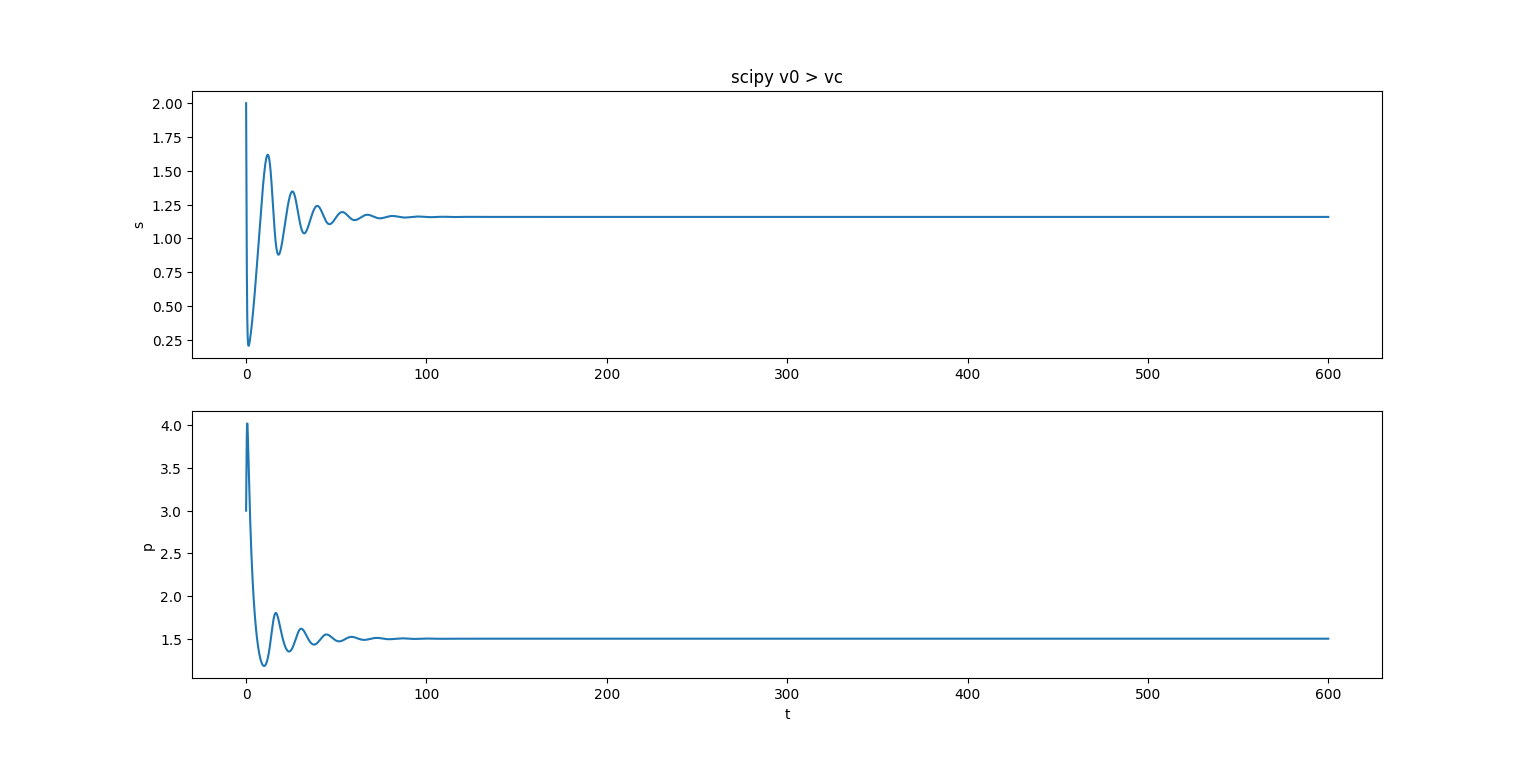
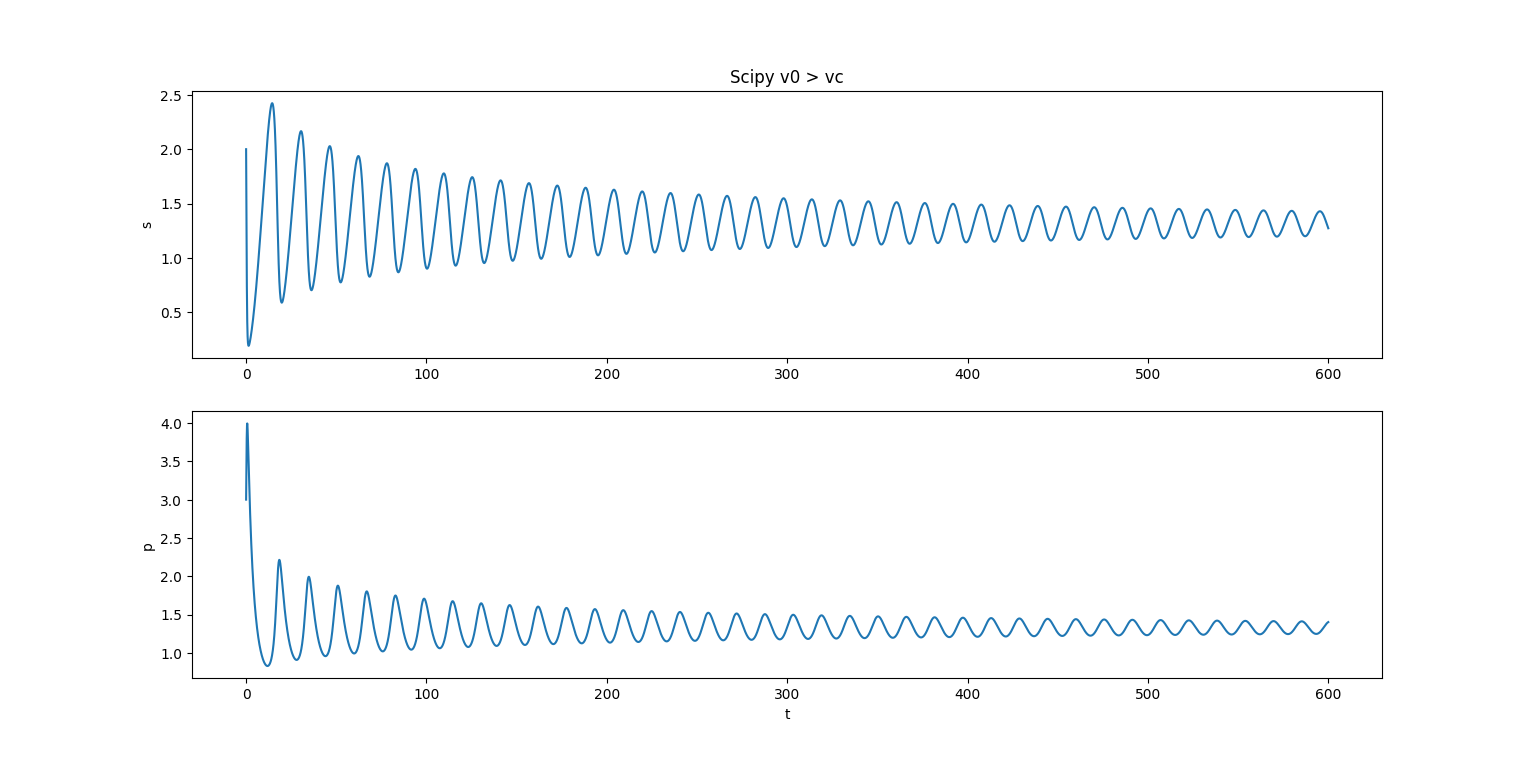
listo ej2

diff --git a/TP4/ej2.py b/TP4/ej2.py
@@ -19,23 +19,23 @@ def higginsselkov():
     plot(t, result[0], result[1], "Higgins-Selkov model with v0 = vc")
 
     result = solve_ivp(dx, (0, tf), x0, method='RK45', max_step=0.01)
-    plot(result.t, result.y[0], result.y[1], "scipy vc")
+    plot(result.t, result.y[0], result.y[1], "Scipy vc")
 
-    v0 = 0.48
+    v0 = 0.51
     t, result = ruku4(dx, t0, tf, h, x0)   
     result = result.T
     plot(t, result[0], result[1], "Higgins-Selkov model with v0 < vc")
 
     result = solve_ivp(dx, (0, tf), x0, method='RK45', max_step=0.01)
-    plot(result.t, result.y[0], result.y[1], "scipy v0 < vc")
+    plot(result.t, result.y[0], result.y[1], "Scipy v0 < vc")
 
-    v0 = 0.6
+    v0 = 0.53
     t, result = ruku4(dx, t0, tf, h, x0)   
     result = result.T
     plot(t, result[0], result[1], "Higgins-Selkov model with v0 > vc")
 
     result = solve_ivp(dx, (0, tf), x0, method='RK45', max_step=0.01)
-    plot(result.t, result.y[0], result.y[1], "scipy v0 > vc")
+    plot(result.t, result.y[0], result.y[1], "Scipy v0 > vc")
 
 
 def dx(t,x):
